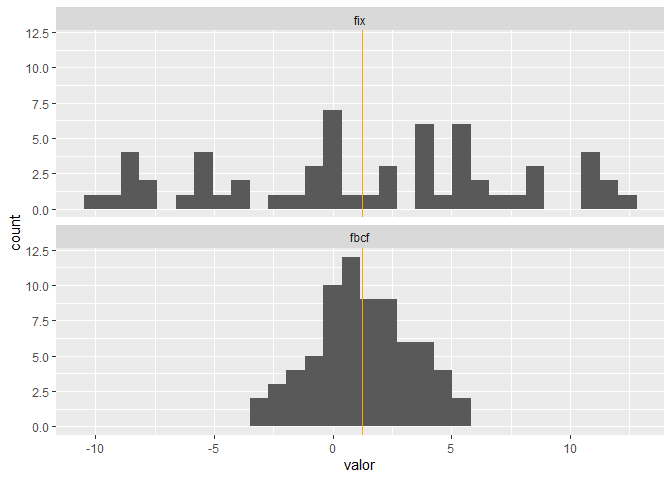
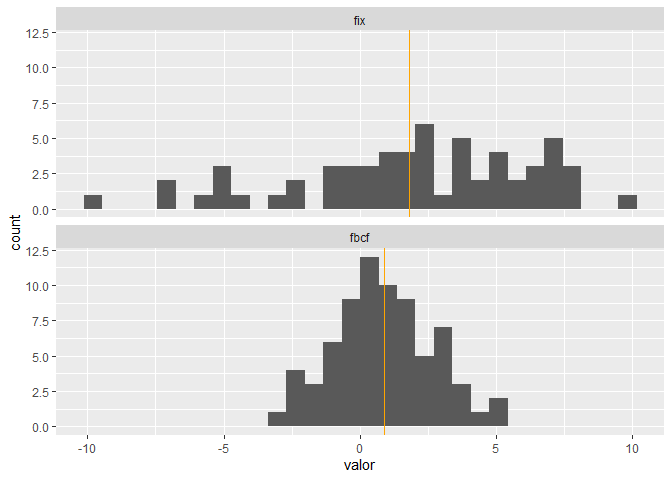
Fix README examples

diff --git a/README.md b/README.md
@@ -119,9 +119,11 @@ Argumentos:
 - URL del indicador que se desea consultar a través de la API:
   “<https://www.inegi.org.mx/app/api/indicadores/desarrolladores/jsonxml/INDICATOR/736183/es/00/false/BIE-BISE/2.0/>”
 
-- Token de autenticación: “f1a58e29e-8796-409c-9aeb-3206889b2067”
+- Token de autenticación: Usar la función tokens() de seriesMX para
+  configurar token_bie.
 
-- Formato de respuesta de la información: “?type=json”
+- Formato de respuesta de la información: JSON por construcción del
+  paquete seriesMX.
 
 Ejemplo api_sie - Banxico. Tipo de cambio mensual, fecha de
 determinación (FIX).
@@ -130,10 +132,11 @@ Argumentos: - URL del indicador que se desea consultar a través de la
 API:
 “<https://www.banxico.org.mx/SieAPIRest/service/v1/series/SF17908/datos?token=>”
 
-- Token de autenticación:
-  “5864e518164893a673fa467ac9e759836dbee33aecc73525d1e1f03254e43b70”
+- Token de autenticación: Usar la función tokens() de seriesMX para
+  configurar token_sie.
 
-- Formato de respuesta de la información: “&mediaType=json”
+- Formato de respuesta de la información: JSON por construcción del
+  paquete seriesMX.
 
 # Módulo 2. Resultado de api_bie y api_sie
 
@@ -156,9 +159,13 @@ estandarizan los data frames que resulten de utilizar estas funciones.
 
 ``` r
 library(seriesMX)
-api_bie(url = paste0("https://www.inegi.org.mx/app/api/indicadores/desarrolladores/jsonxml/INDICATOR/736183/es/00/false/BIE-BISE/2.0/"),
-token = "ejemplo_tokenf1a58e29e-8796-409c-9aeb-3206889b2067",
-formato_resp = "?type=json")
+
+tokens(token_bie = Sys.getenv("token_bie_get"),
+       token_sie = Sys.getenv("token_sie_get"))
+
+pib_ae_736183<-"https://www.inegi.org.mx/app/api/indicadores/desarrolladores/jsonxml/INDICATOR/736183/es/00/false/BIE-BISE/2.0/"
+
+api_bie(pib_ae_736183)
 ```
 
 # Módulo 3. Unión y visualización de los datos a través de una variable en común: periodo de tiempo
@@ -229,17 +236,21 @@ library(tidyverse)
 #> ℹ Use the conflicted package (<http://conflicted.r-lib.org/>) to force all conflicts to become errors
 library(seriesMX)
 
+#Configuración de los tokens de autenticación del BIE y Sie para utilizar las funciones api_bie y api_sie.
+
+tokens(token_bie = Sys.getenv("token_bie_get"),
+       token_sie = Sys.getenv("token_sie_get"))
+#> Tokens configurados exitosamente en esta sesion: BIE, SIE
+
+#Sys.getenv("token_bie_get") lee tu token real desde el .Renviron, así que el código no lo expone para este ejemplo.
+
 #Tipo de cambio mensual, fecha de determinación (FIX).
 
-tipo_de_cambio_fix<-api_sie(url = paste0("https://www.banxico.org.mx/SieAPIRest/service/v1/series/SF17908/datos?token="),
[1 lines of base64/hex data omitted]
-formato_resp = "&mediaType=json")
+tipo_de_cambio_fix<-api_sie(url = "https://www.banxico.org.mx/SieAPIRest/service/v1/series/SF17908/datos?token=")
 
 #Variación porcentual anual de la serie desestacionalizada de la Formación Bruta de Capital Fijo (TOTAL).
 
-formacion_bcf<-api_bie(url = paste0("https://www.inegi.org.mx/app/api/indicadores/desarrolladores/jsonxml/INDICATOR/741104/es/00/false/BIE-BISE/2.0/"),
-token = "c1a58e29e-8796-409c-9aeb-3206889b2005",
-formato_resp = "?type=json")
+formacion_bcf<-api_bie(url = "https://www.inegi.org.mx/app/api/indicadores/desarrolladores/jsonxml/INDICATOR/741104/es/00/false/BIE-BISE/2.0/")
 
 #Homologación de las fechas:
 
@@ -259,7 +270,6 @@ fix_fbcf<- tipo_de_cambio_fix%>%
   mutate(var_anual_fix = (fix / lag(fix, n = 12) - 1) * 100)%>%
   select(fecha, fbcf, var_anual_fix)
 
-
 #Usar la función "graficar_ts" de seriesMX: 
 
 graficar_ts(df = fix_fbcf,
@@ -272,11 +282,13 @@ graficar_ts(df = fix_fbcf,
 ```
 
 <img src="man/figures/README-ejemplo-integracion-series-1.png" alt="" width="100%" />
-\# Módulo 4. Transformaciones macroeconómicas y aritmética porcentual
+
+# Módulo 4. Transformaciones y aritmética porcentual
 
 Este módulo pretende proporcionar una metodología adecuada para el
 cálculo de tasas y variaciones porcentuales de las series de
-indicadores, evitando errores comunes de suma directa de porcentajes.
+indicadores, evitando errores comunes de suma, resta, multiplicación y
+división directa de porcentajes.
 
 ## Función “estadisticos_ts” del paquete seriesMX
 
@@ -295,6 +307,7 @@ series de tiempo a partir de sus variaciones porcentuales periódicas.
 # fix: caminata aleatoria en torno a 19 pesos por dólar (nivel).
 # fbcf: variación anual simulada, con una distribución normal con media 1 y desviación 2.
 
+set.seed(123)
 datos <- data.frame(
   fecha = seq(as.Date("2018-01-01"), by = "month", length.out = 72),
   fix = 18 + cumsum(rnorm(72, 0.02, 0.3)),
@@ -305,12 +318,12 @@ datos$fix <- c(rep(NA, 12), (datos$fix[13:72] / datos$fix[1:60] - 1) * 100)
 
 #Resultado:
 estadisticos_ts(df = datos)
-#>   indicador observaciones    maximo     minimo    media media_aritmetica
-#> 1       fix            60 12.412938 -10.099346 1.223088         1.411609
-#> 2      fbcf            72  5.787598  -3.172307 1.240259         1.260856
-#>    mediana desv_esta           Q1       Q3      RIQ       sesgo curtosis
-#> 1 1.736036  6.213526 -3.818493111 5.482657 9.301150 -0.10599777 2.036043
-#> 2 1.144304  2.056596 -0.009716117 2.652570 2.662287  0.02417627 2.488473
+#>   indicador observaciones   maximo    minimo     media media_aritmetica
+#> 1       fix            60 9.818249 -9.797683 1.8161194        1.9082271
+#> 2      fbcf            72 5.374666 -3.106494 0.8743851        0.8908638
+#>     mediana desv_esta         Q1       Q3      RIQ      sesgo curtosis
+#> 1 2.4120451  4.327793 -0.3087250 5.105226 5.413951 -0.6080405 2.877423
+#> 2 0.7898006  1.838247 -0.3219292 2.053309 2.375238  0.2061461 2.688179
 
 #Panel de histogramas de las series de indicadores junto con sus estadísticos descriptivos.
 comparar_est_ts(datos,  indicadores = NULL, 
